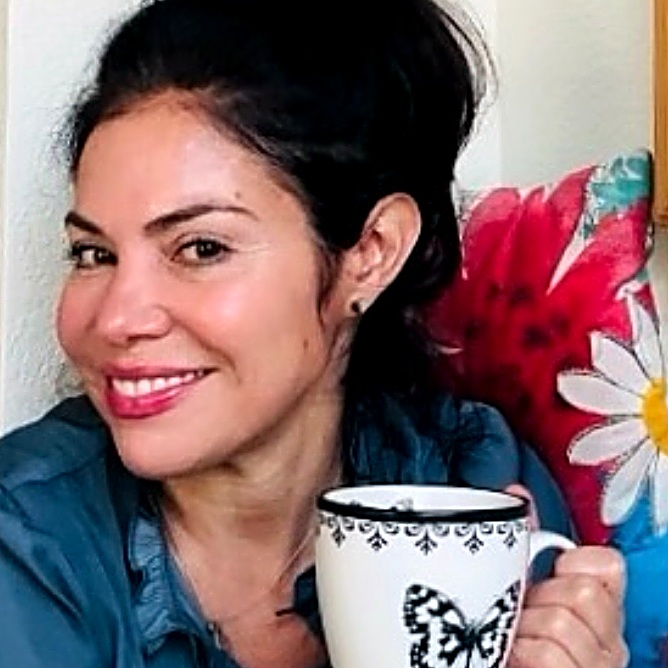
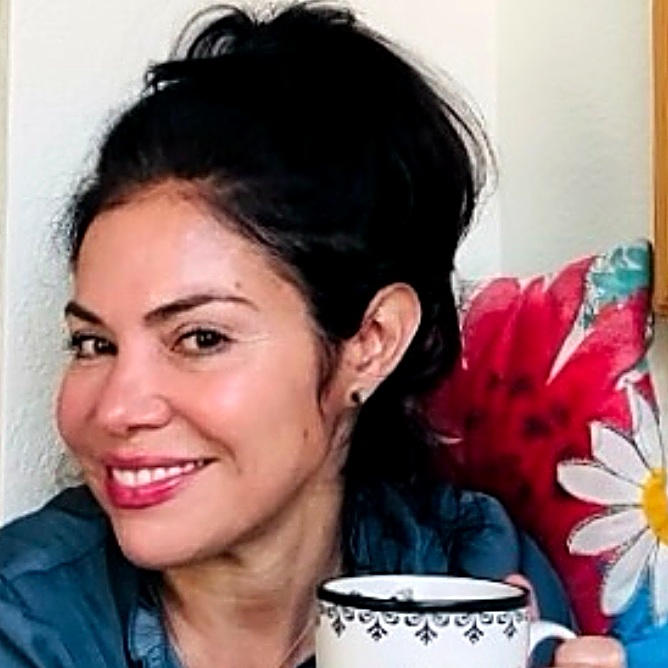
Enlarge Contact-page photo circle and re-crop to keep her hair from being cut off

diff --git a/index.html b/index.html
@@ -21,7 +21,7 @@
   <link href="https://fonts.googleapis.com/css2?family=Cormorant+Garamond:ital,wght@0,500;0,600;0,700;1,500;1,600&family=Montserrat:wght@300;400;500;600&display=swap" rel="stylesheet">
   <link rel="icon" type="image/png" href="images/favicon.png?v=2">
   <link rel="apple-touch-icon" href="images/favicon.png?v=2">
-  <link rel="stylesheet" href="css/styles.css?v=20260822a">
+  <link rel="stylesheet" href="css/styles.css?v=20260822b">
 </head>
 <body class="one-page-site">
   <a class="skip-link" href="#main">Skip to main content</a>
@@ -255,7 +255,7 @@
     <section class="page contact-page" id="contact" aria-labelledby="contact-title">
       <div class="contact-layout">
         <div class="contact-intro">
-          <img src="images/leslie-simon.jpg?v=20260822a" alt="Leslie Simon">
+          <img src="images/leslie-simon.jpg?v=20260822b" alt="Leslie Simon">
           <div>
             <p class="section-label">Let’s Build What’s Next</p>
             <h2 id="contact-title">Every exceptional hire begins with a conversation.</h2>

diff --git a/contact.html b/contact.html
@@ -21,7 +21,7 @@
   <link href="https://fonts.googleapis.com/css2?family=Cormorant+Garamond:ital,wght@0,500;0,600;0,700;1,500;1,600&family=Montserrat:wght@300;400;500;600&display=swap" rel="stylesheet">
   <link rel="icon" type="image/png" href="images/favicon.png?v=2">
   <link rel="apple-touch-icon" href="images/favicon.png?v=2">
-  <link rel="stylesheet" href="css/styles.css?v=20260822a">
+  <link rel="stylesheet" href="css/styles.css?v=20260822b">
 </head>
 <body>
   <a class="skip-link" href="#main">Skip to main content</a>
@@ -41,7 +41,7 @@
     <section class="page contact-page" id="contact" aria-labelledby="contact-title">
       <div class="contact-layout">
         <div class="contact-intro">
-          <img src="images/leslie-simon.jpg?v=20260822a" alt="Leslie Simon">
+          <img src="images/leslie-simon.jpg?v=20260822b" alt="Leslie Simon">
           <div>
             <p class="section-label">Let’s Build What’s Next</p>
             <h1 id="contact-title">Every exceptional hire begins with a conversation.</h1>

diff --git a/about.html b/about.html
@@ -21,7 +21,7 @@
   <link href="https://fonts.googleapis.com/css2?family=Cormorant+Garamond:ital,wght@0,500;0,600;0,700;1,500;1,600&family=Montserrat:wght@300;400;500;600&display=swap" rel="stylesheet">
   <link rel="icon" type="image/png" href="images/favicon.png?v=2">
   <link rel="apple-touch-icon" href="images/favicon.png?v=2">
-  <link rel="stylesheet" href="css/styles.css?v=20260822a">
+  <link rel="stylesheet" href="css/styles.css?v=20260822b">
 </head>
 <body>
   <a class="skip-link" href="#main">Skip to main content</a>

diff --git a/services.html b/services.html
@@ -21,7 +21,7 @@
   <link href="https://fonts.googleapis.com/css2?family=Cormorant+Garamond:ital,wght@0,500;0,600;0,700;1,500;1,600&family=Montserrat:wght@300;400;500;600&display=swap" rel="stylesheet">
   <link rel="icon" type="image/png" href="images/favicon.png?v=2">
   <link rel="apple-touch-icon" href="images/favicon.png?v=2">
-  <link rel="stylesheet" href="css/styles.css?v=20260822a">
+  <link rel="stylesheet" href="css/styles.css?v=20260822b">
 </head>
 <body>
   <a class="skip-link" href="#main">Skip to main content</a>

diff --git a/css/styles.css b/css/styles.css
@@ -814,8 +814,8 @@ p {
 }
 
 .contact-intro img {
-  width: 126px;
-  height: 126px;
+  width: 168px;
+  height: 168px;
   border-radius: 50%;
   object-fit: cover;
   object-position: center top;
@@ -1123,8 +1123,8 @@ p {
   }
 
   .contact-intro img {
-    width: 96px;
-    height: 96px;
+    width: 128px;
+    height: 128px;
   }
 
   .site-footer {
